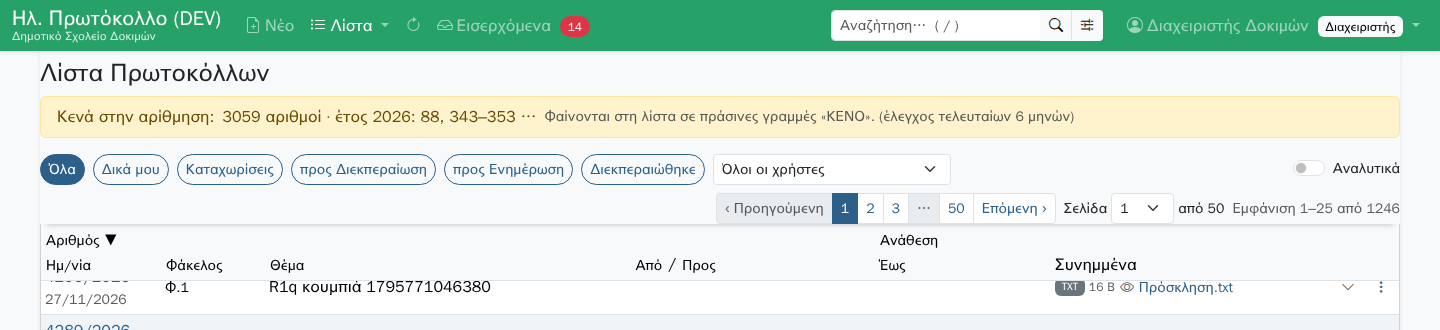
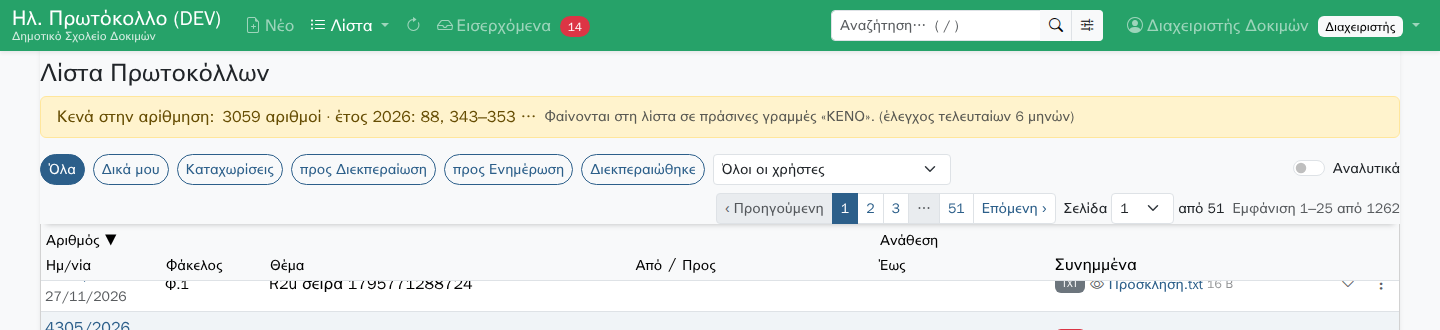
R2u: the size after the file's name, dimmed; each filter explains itself (tooltip)
Δικά μου: registered by or assigned to; Καταχωρίσεις: registered by (the
others too). The type badge before 👁 is the type alone, so the name has
more room.

diff --git a/e2e/tests/protocol-list.spec.js b/e2e/tests/protocol-list.spec.js
@@ -655,7 +655,7 @@ test('the e-mail file comes after the attachments, by its date and time (R2r)', 
 
 // R2u (owner, 2026-11-27): in the list, as in the form, a file's line is: its type, 👁, its name; the fixed head has the
 // page's own background (it showed as a lighter band)
-test('a file\'s 👁 comes before its name; the fixed head blends with the page (R2u)', async ({ page }) => {
+test('a file\'s 👁 comes before its name, its size after it; the filters explain themselves; the fixed head blends with the page (R2u)', async ({ page }) => {
   await page.setViewportSize({ width: 1440, height: 900 });
   await login(page, 'admin');
   const thema = `R2u σειρά ${Date.now()}`;
@@ -671,6 +671,15 @@ test('a file\'s 👁 comes before its name; the fixed head blends with the page 
   const name = await line.locator('a.attachment-link').boundingBox();
   expect(badge.x).toBeLessThan(eye.x);
   expect(eye.x).toBeLessThan(name.x);
+  // the size after the name, dimmed; the type alone before it
+  const size = line.locator('.attachment-size');
+  await expect(size).toHaveText('16 B');   // «Καλημέρα» in UTF-8
+  expect((await size.boundingBox()).x).toBeGreaterThan(name.x + name.width - 1);
+  await expect(line.locator('.file-badge')).not.toContainText('B');
+  expect(await size.evaluate((el) => getComputedStyle(el).color)).not.toBe(await line.locator('a.attachment-link').evaluate((el) => getComputedStyle(el).color));
+  // the filters explain themselves
+  await expect(page.locator('[data-filter=m]')).toHaveAttribute('title', /ανατεθεί/);
+  await expect(page.locator('[data-filter=a]')).toHaveAttribute('title', /Μόνο όσα καταχωρίσατε εσείς/);
   await evidence(page, 'r2u-file-line', { clip: await page.locator('tr.protocol-row', { hasText: thema }).boundingBox() });
 
   const colour = (sel) => page.locator(sel).evaluate((el) => getComputedStyle(el).backgroundColor);

diff --git a/resources/views/livewire/protocol-list.blade.php b/resources/views/livewire/protocol-list.blade.php
@@ -44,7 +44,7 @@
     <div class="d-flex flex-wrap align-items-center gap-2 mb-2" role="group" aria-label="Φίλτρα">
         @foreach (\App\Livewire\ProtocolList::FILTERS as $key => $label)
             <button type="button" wire:click="setFilter('{{ $key }}')" data-filter="{{ $key === '' ? 'all' : $key }}"
-                    class="btn btn-sm rounded-pill {{ $filter === $key ? 'btn-primary' : 'btn-outline-primary' }}"
+                    class="btn btn-sm rounded-pill {{ $filter === $key ? 'btn-primary' : 'btn-outline-primary' }}" title="{{ \App\Livewire\ProtocolList::FILTER_HELP[$key] }}"
                     @if ($filter === $key) aria-pressed="true" @endif>{{ $label }}</button>
         @endforeach
         @if ($canSeeOthers)
@@ -211,7 +211,7 @@
                                              as in the form: the type, 👁, then the name (the link) --}}
                                         @php $stampCorner ??= \App\Services\Stamp\StampTemplate::current()->corner; @endphp
                                         <a href="{{ url('/download/'.$a->id) }}" target="_blank" class="text-decoration-none position-relative z-2 d-inline-flex flex-shrink-0"
-                                           title="{{ $a->name }}" tabindex="-1" aria-hidden="true"><x-file-badge :name="$a->name" :size="$a->size" :mime="$a->mimeType" /></a>
+                                           title="{{ $a->name }}" tabindex="-1" aria-hidden="true"><x-file-badge :name="$a->name" :mime="$a->mimeType" /></a>
                                         <x-preview-button class="position-relative z-2 flex-shrink-0" :name="$a->name" :download="url('/download/'.$a->id)" :preview="url('/preview/'.$a->id)"
                                                           :group="'list-'.$p->id" :stamp-in-file="(bool) $a->stamp_in_file" :stampable="\App\Services\Stamp\StampedCopy::applies($a)"
                                                           :stamp-place="$a" :stamp-corner="$stampCorner" />
@@ -219,6 +219,8 @@
                                            title="{{ $a->name }}">
                                             <span x-show="! (detailed || open)" class="text-truncate">{{ \App\Support\FileBadge::shortName($shown) }}</span>
                                             <span x-show="detailed || open" x-cloak class="text-break">{{ $shown }}</span></a>
+                                        {{-- R2u (owner, 2026-11-27): the size after the name, dimmed (the type alone before it leaves the name more room) --}}
+                                        @if (($size = \App\Support\FileBadge::size($a->size)) !== '')<small class="attachment-size text-body-tertiary text-nowrap flex-shrink-0">{{ $size }}</small>@endif
                                     @endif
                                     @if ($a->ada && ! $a->savedPath)
                                         {{-- R2p (owner, 2026-11-25): only an ΑΔΑ: a pill «ΑΔΑ», then its code as the link (as a file's name), as R1m --}}

diff --git a/tests/Feature/ProtocolListTest.php b/tests/Feature/ProtocolListTest.php
@@ -474,4 +474,21 @@ class ProtocolListTest extends FeatureTestCase
         $this->assertSame('σύντομο.pdf', \App\Support\FileBadge::shortName('σύντομο.pdf'));
         $this->assertSame(24, mb_strlen(\App\Support\FileBadge::shortName(str_repeat('α', 40))));
     }
+
+    /** R2u (owner, 2026-11-27): each filter says what it shows (Δικά μου vs Καταχωρίσεις); a file's size after its name */
+    public function test_the_filters_explain_themselves_and_the_size_follows_the_name(): void
+    {
+        $this->assertSame(array_keys(ProtocolList::FILTERS), array_keys(ProtocolList::FILTER_HELP));
+        $p = Protocol::factory()->number(9)->create();
+        $a = \App\Models\Attachment::factory()->withFile()->create(['protocol_id' => $p->id, 'name' => 'απόφαση.pdf', 'size' => 2048]);
+        $html = Livewire::actingAs($this->admin())->test(ProtocolList::class)->html();
+        $this->assertStringContainsString('data-filter="m"', $html);
+        $this->assertMatchesRegularExpression('~data-filter="m"[^>]*title="Όσα καταχωρίσατε εσείς ή σας έχουν ανατεθεί~u', preg_replace('/\s+/', ' ', $html));
+        $this->assertMatchesRegularExpression('~data-filter="a"[^>]*title="Μόνο όσα καταχωρίσατε εσείς~u', preg_replace('/\s+/', ' ', $html));
+        // the type before 👁 has no size; the size follows the name, dimmed
+        $size = \App\Support\FileBadge::size($a->fresh()->size);
+        $this->assertNotSame('', $size);
+        $this->assertMatchesRegularExpression('~class="[^"]*attachment-link"[^>]*>.*?</a>\s*(?:<!--.*?-->\s*)*<small class="attachment-size text-body-tertiary[^"]*">' . preg_quote($size, '~') . '</small>~su', $html);
+        $this->assertMatchesRegularExpression('~<span class="file-badge[^"]*">\s*<span class="badge[^>]*>PDF</span>\s*(?:<!--.*?-->\s*)*</span>~u', $html, 'the type alone');
+    }
 }

diff --git a/app/Livewire/ProtocolList.php b/app/Livewire/ProtocolList.php
@@ -35,6 +35,16 @@ class ProtocolList extends Component
      */
     public const FILTERS = ['' => 'Όλα', 'm' => 'Δικά μου', 'a' => 'Καταχωρίσεις', 'd' => 'προς Διεκπεραίωση', 'e' => 'προς Ενημέρωση', 'f' => 'Διεκπεραιώθηκε'];
 
+    /** R2u (owner, 2026-11-27): what each filter shows, as its tooltip («the user» = you, or the one chosen next to them) */
+    public const FILTER_HELP = [
+        '' => 'Όλα τα πρωτόκολλα (με επιλεγμένο χρήστη: όσα καταχώρισε ή του έχουν ανατεθεί).',
+        'm' => 'Όσα καταχωρίσατε εσείς ή σας έχουν ανατεθεί (για διεκπεραίωση ή για ενημέρωση). Με επιλεγμένο χρήστη: τα δικά του.',
+        'a' => 'Μόνο όσα καταχωρίσατε εσείς (όχι όσα σας έχουν απλώς ανατεθεί). Με επιλεγμένο χρήστη: όσα καταχώρισε εκείνος.',
+        'd' => 'Όσα έχουν ανατεθεί για διεκπεραίωση και δεν έχουν διεκπεραιωθεί ακόμη.',
+        'e' => 'Όσα έχουν ανατεθεί για ενημέρωση.',
+        'f' => 'Όσα έχουν ανατεθεί για διεκπεραίωση και έχουν διεκπεραιωθεί.',
+    ];
+
     /** Columns that can be sorted (all are columns of protocols, except the assignee) */
     public const SORTS = [
         'protocolnum' => 'Αριθμός', 'protocoldate' => 'Ημ/νία', 'fakelos' => 'Φάκελος', 'thema' => 'Θέμα',

diff --git a/docs/plan/PROGRESS.md b/docs/plan/PROGRESS.md
@@ -195,7 +195,7 @@ flowchart LR
     R5y["R5y<br/>Inbox: one spinner while registering; a registered e-mail tinted and bordered green, a read one grey; the page follows it"]
     R4q["R4q<br/>Preview of e-mail files (.eml); 👁 next to each file in the protocol list"]
     R2t["R2t<br/>The list's head (title, gaps notice, filters, pager) stays under the top bar"]
-    R2u["R2u<br/>List: a file's 👁 before its name (as in the form); the fixed head blends with the page"]
+    R2u["R2u<br/>List: a file's 👁 before its name, its size after it (dimmed); filter tooltips; the fixed head blends with the page"]
     R1p["R1p<br/>Protocol form: keywords offered from the subject (on leaving Θέμα) and the files' names"]
     R5x["R5x<br/>Inbox: a registered e-mail's envelope gets a green stripe on the left"]
   end
@@ -589,7 +589,7 @@ gantt
   R5y Inbox  one spinner while registering; a registered e-mail tinted and bordered green, a read one grey; the page follows it :done, r5y, 2026-11-14 17:33, 19m
   R4q Preview of e-mail files (.eml); 👁 next to each file in the protocol list :done, r4q, 2026-11-14 17:52, 19m
   R2t The list's head (title, gaps notice, filters, pager) stays under the top bar :done, r2t, 2026-11-14 18:11, 19m
-  R2u List  a file's 👁 before its name (as in the form); the fixed head blends with the page :done, r2u, 2026-11-14 18:30, 19m
+  R2u List  a file's 👁 before its name, its size after it (dimmed); filter tooltips; the fixed head blends with the page :done, r2u, 2026-11-14 18:30, 19m
   R1p Protocol form  keywords offered from the subject (on leaving Θέμα) and the files' names :done, r1p, 2026-11-14 18:49, 19m
   R5x Inbox  a registered e-mail's envelope gets a green stripe on the left :done, r5x, 2026-11-14 19:08, 19m
   section Batch 10
@@ -754,7 +754,7 @@ te = expected hours; ES/EF = earliest start/finish; LS/LF = latest start/finish;
 | ✅ | **R5y** 🔴 | Inbox: one spinner while registering; a registered e-mail tinted and bordered green, a read one grey; the page follows it | R5x | 0.3 | 0.1 | 11.1 | 11.5 | 11.1 | 11.5 | 0.0 | #157 |
 | ✅ | **R4q** | Preview of e-mail files (.eml); 👁 next to each file in the protocol list | R4c | 0.3 | 0.1 | 2.8 | 3.2 | 10.8 | 11.1 | 8.0 | #158 |
 | ✅ | **R2t** | The list's head (title, gaps notice, filters, pager) stays under the top bar | R2e | 0.3 | 0.1 | 4.5 | 4.8 | 10.8 | 11.1 | 6.3 | #159 |
-| ✅ | **R2u** | List: a file's 👁 before its name (as in the form); the fixed head blends with the page | R2t, R4q | 0.3 | 0.1 | 4.8 | 5.1 | 11.1 | 11.5 | 6.3 | #161 |
+| ✅ | **R2u** | List: a file's 👁 before its name, its size after it (dimmed); filter tooltips; the fixed head blends with the page | R2t, R4q | 0.3 | 0.1 | 4.8 | 5.1 | 11.1 | 11.5 | 6.3 | #161 |
 | ✅ | **R1p** | Protocol form: keywords offered from the subject (on leaving Θέμα) and the files' names | R5d | 0.3 | 0.1 | 4.7 | 5.0 | 11.1 | 11.5 | 6.4 | #154 |
 | ✅ | **R5x** 🔴 | Inbox: a registered e-mail's envelope gets a green stripe on the left | R5q | 0.3 | 0.1 | 10.8 | 11.1 | 10.8 | 11.1 | 0.0 | #155 |
 | ⬜ | **A01** | Integrity-check engine + page | R2 | 0.5 | 0.1 | 4.2 | 4.7 | 10.4 | 10.9 | 6.2 |  |

diff --git a/docs/reports/R2u.md b/docs/reports/R2u.md
@@ -1,4 +1,4 @@
-# R2u: list: a file's 👁 before its name; the fixed head blends with the page
+# R2u: list: a file's 👁 before its name, its size after it; filter tooltips; the fixed head blends with the page
 
 | | |
 |---|---|
@@ -8,12 +8,22 @@
 ## What was asked (owner, 2026-11-27)
 - «In the main protocol screen the preview icon should be moved before the filename for consistency reasons.»
 - «The part of the screen that stays frozen does not blend completely with the background. Can we fix that?»
+- Then: «add your explanation for Δικά μου vs Καταχωρίσεις as a tooltip on the buttons» and «move the file size just
+  after each filename and dim it» (less word-wrapping in the names).
 
 ## What changed
 - **A file's line in the list** is now, as in the form: its type (e.g. PDF, 27 KB), 👁, its name.
   - The name is the link that opens the file, as before.
   - The type is a link too, for the mouse; TAB passes only the 👁 and the name.
   - A long name still shortens; the type and 👁 keep their size.
+- **The size** follows the name, dimmed (e.g. *Πρόσκληση.txt* `16 B`); the type before 👁 is the type alone. The name
+  gets the room the size took.
+- **The filters say what they show** (hover):
+  - *Δικά μου*: those you registered **or** that are assigned to you (for handling or for information);
+  - *Καταχωρίσεις*: only those you registered yourself.
+
+  With a user chosen next to them, the same for that user. *Όλα*, *προς Διεκπεραίωση*, *προς Ενημέρωση* and
+  *Διεκπεραιώθηκε* got theirs too.
 - **The fixed head** (R2t) had the white of the cards, so it showed as a lighter band over the page's light grey. It now
   has the page's own grey (theme colour), so only its contents show.
 
@@ -24,7 +34,11 @@
 ## How verified
 - Browser (`protocol-list.spec.js`, R2u):
   - a saved protocol's line in the list: type, then 👁, then the name, from left to right;
+  - the size after the name, in a dimmer colour, and none in the type;
+  - the tooltips of *Δικά μου* and *Καταχωρίσεις*;
   - the head's background equals the page's, and it is fixed when scrolled.
+- PHPUnit `ProtocolListTest::test_the_filters_explain_themselves_and_the_size_follows_the_name`: a tooltip for every
+  filter, the texts of the two, the size right after the name's link, the type alone.
 
   The R2b test now picks the name's link. The list and preview specs are green (19).
 - PHPUnit list and preview tests green (only the view and CSS changed).

diff --git a/docs/plan/HANDOFF.md b/docs/plan/HANDOFF.md
@@ -8,7 +8,7 @@ Read this first when (re)starting work. Update it at the end of every task.
   R4c browser libraries (only if wanted). (R5p's look: each user chooses since R5q.)
   The owner's official stamp lives only in `local-data/stamp/` (template.json + emblem.png from the public-domain
   Wikimedia SVG; never commit anything from `local-data/official stamp.*`); loaded by the owner with `stamp:import`.
-- **R2u (owner, 2026-11-27):** protocol-list: the file line is badge link (tabindex -1, aria-hidden), `<x-preview-button>`, `a.attachment-link` (the name); `.list-head` background `--bs-tertiary-bg` (the body is `bg-body-tertiary`).
+- **R2u (owner, 2026-11-27):** protocol-list: the file line is badge link (tabindex -1, aria-hidden), `<x-preview-button>`, `a.attachment-link` (the name), `.attachment-size` after it; `ProtocolList::FILTER_HELP` (filter tooltips); `.list-head` background `--bs-tertiary-bg` (the body is `bg-body-tertiary`).
 - **R5y (owner, 2026-11-27):** email-inbox: no spinner in the register / receipt / «Ναι, καταχώριση» buttons; envelope classes `is-saved` / `is-read` (CSS variables `--inbox-mark`, `--inbox-tint`: Bootstrap theme colours); `EmailInbox` dispatches `inbox-done` after register / markRead, inbox.js `followDone()` scrolls the envelope to the top.
 - **R4q (owner, 2026-11-27):** `Preview::CONVERTED` + `eml => mail`, `Preview::mail()` (MailParser / MailContent: headers table, `<style>` + body kept, script / iframe / object / meta / base / link removed; the page's CSP loads nothing remote; up to MAX_MAIL_BYTES 40 MB); protocol-list: `<x-preview-button>` per file (group `list-<id>`), the stamp's corner read once (`stampCorner` prop, `StampedCopy::place($a, $corner)`); `.col-files` 17rem (narrow 9.5rem).
 - **R2t (owner, 2026-11-27):** protocol-list: `#list-head` wraps title, gaps notice, filters and top pager; CSS `.list-head` sticky (≥ 768 px wide and ≥ 600 px high), `--list-head-height` (app.js `measureListHead`, ResizeObserver, Livewire morph of `#list-head`) moves the table's sticky `th` under it; `.is-stuck` adds the shadow.

diff --git a/docs/plan/BACKLOG.md b/docs/plan/BACKLOG.md
@@ -218,7 +218,7 @@ organisation's official stamp (the owner's image is in git-ignored `local-data/`
 | R4p | **Opaque stamp per file** (owner, 2026-11-27): next to ↖ ↑ ↗ in the preview, see-through (as it is: the number and date on white, R4k) or opaque (all of the stamp on white), kept for the file (`attachments.stamp_opaque`), for every user who sees the protocol; the stored file never changes | Feature | P2 | S | R4n |
 | R4q | **E-mail files previewed; 👁 in the list** (owner, 2026-11-27): an .eml attachment is shown as an e-mail (Από, Προς, Κοιν., date, Θέμα, its files, then its HTML or text) in the sandboxed preview; the list's Συνημμένα has 👁 too (‹ › through that protocol's files), the column a little wider, Θέμα a little narrower | Feature | P2 | S | R4c |
 | R2t | **List head fixed** (owner, 2026-11-27): the title, the gaps notice, the filters and the pager stay in place under the top bar while the list scrolls; the column titles stick right under them; a thin shadow while stuck; not on small or low screens | UX | P2 | S | R2e |
-| R2u | **List: 👁 first, head blends in** (owner, 2026-11-27): a file's line is its type, 👁, its name, as in the form; the fixed head has the page's own background (it showed as a lighter band) | UX | P3 | S | R2t, R4q |
+| R2u | **List: 👁 first, head blends in** (owner, 2026-11-27): a file's line is its type, 👁, its name (as in the form), then its size, dimmed; each filter has a tooltip saying what it shows (Δικά μου: registered by or assigned to; Καταχωρίσεις: registered by); the fixed head has the page's own background (it showed as a lighter band) | UX | P3 | S | R2t, R4q |
 | R1p | **Keyword suggestions in the form** (owner, 2026-11-26): as in the inbox (R5d/R5e), + buttons under Λέξεις κλειδιά from the subject (after leaving Θέμα) and the names of the files added or saved; keywords in use first; a click adds it; only while the field can be changed | UI | P2 | S | R5d |
 
 ## Phase 5 — Finish

diff --git a/OWNER-TODO.md b/OWNER-TODO.md
@@ -305,7 +305,7 @@ Open *Εισερχόμενα*.
 - [ ] **111.** *Εισερχόμενα*: register an e-mail with the buttons at the bottom of the screen: one spinner (in the blue notice), the buttons greyed; when it is saved the page moves to the e-mail's top, now tinted green with a green border (also round its envelope). *Αναγνωσμένο* does the same in grey.
 - [ ] **112.** *Λίστα*: next to a protocol's file there is now 👁; ‹ › go through that protocol's files. Open a protocol registered from an e-mail: its *.eml* file opens with 👁 as an e-mail (Από, Προς, Θέμα, then the message).
 - [ ] **113.** *Λίστα*: scroll down: the title, the gaps notice, the filters and the page buttons stay under the top bar, the column titles right under them (on a small or low window they scroll away as before).
-- [ ] **115.** *Λίστα*: a file's line reads type, 👁, name (as in the form); scrolled, the fixed head has the same grey as the page.
+- [ ] **115.** *Λίστα*: a file's line reads type, 👁, name, then the size, dimmed; hover *Δικά μου* / *Καταχωρίσεις* for what they show; scrolled, the fixed head has the same grey as the page.
 
 ## Questions for you
 1. **`??` in `ΑΔΕΙΑ ΚΩΝΣΤΑΝΤΙΝΙΔΟΥ`:** the new inbox shows this e-mail correctly (sender, subject, text, three
